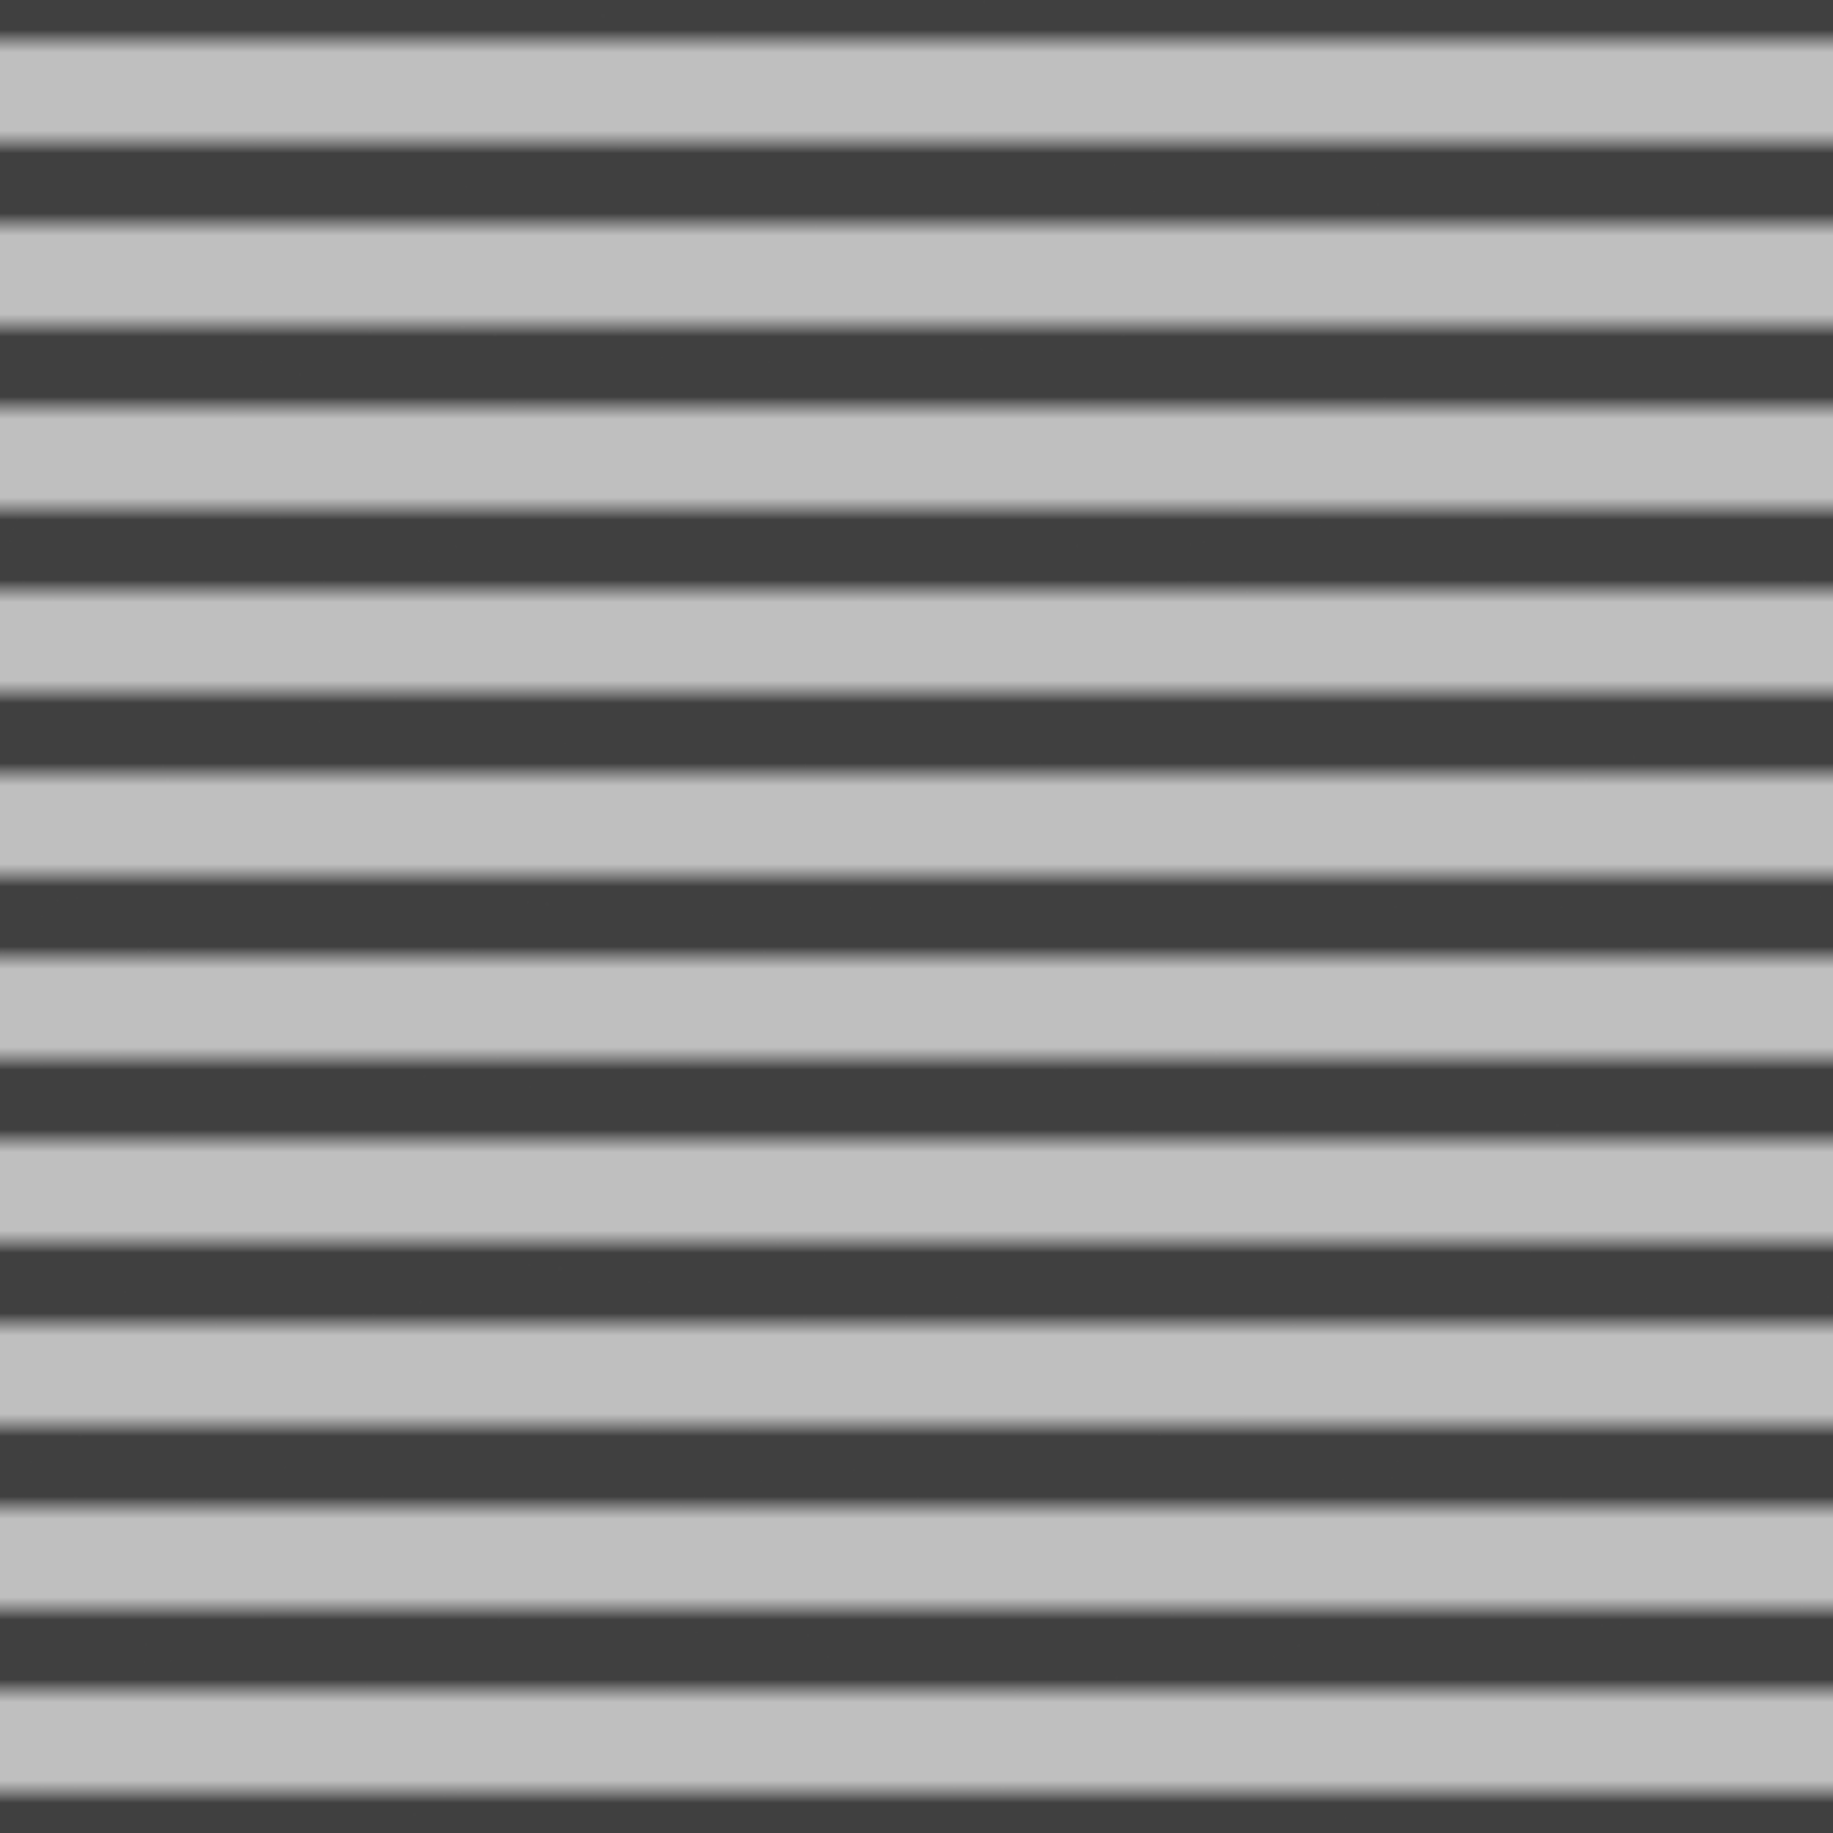
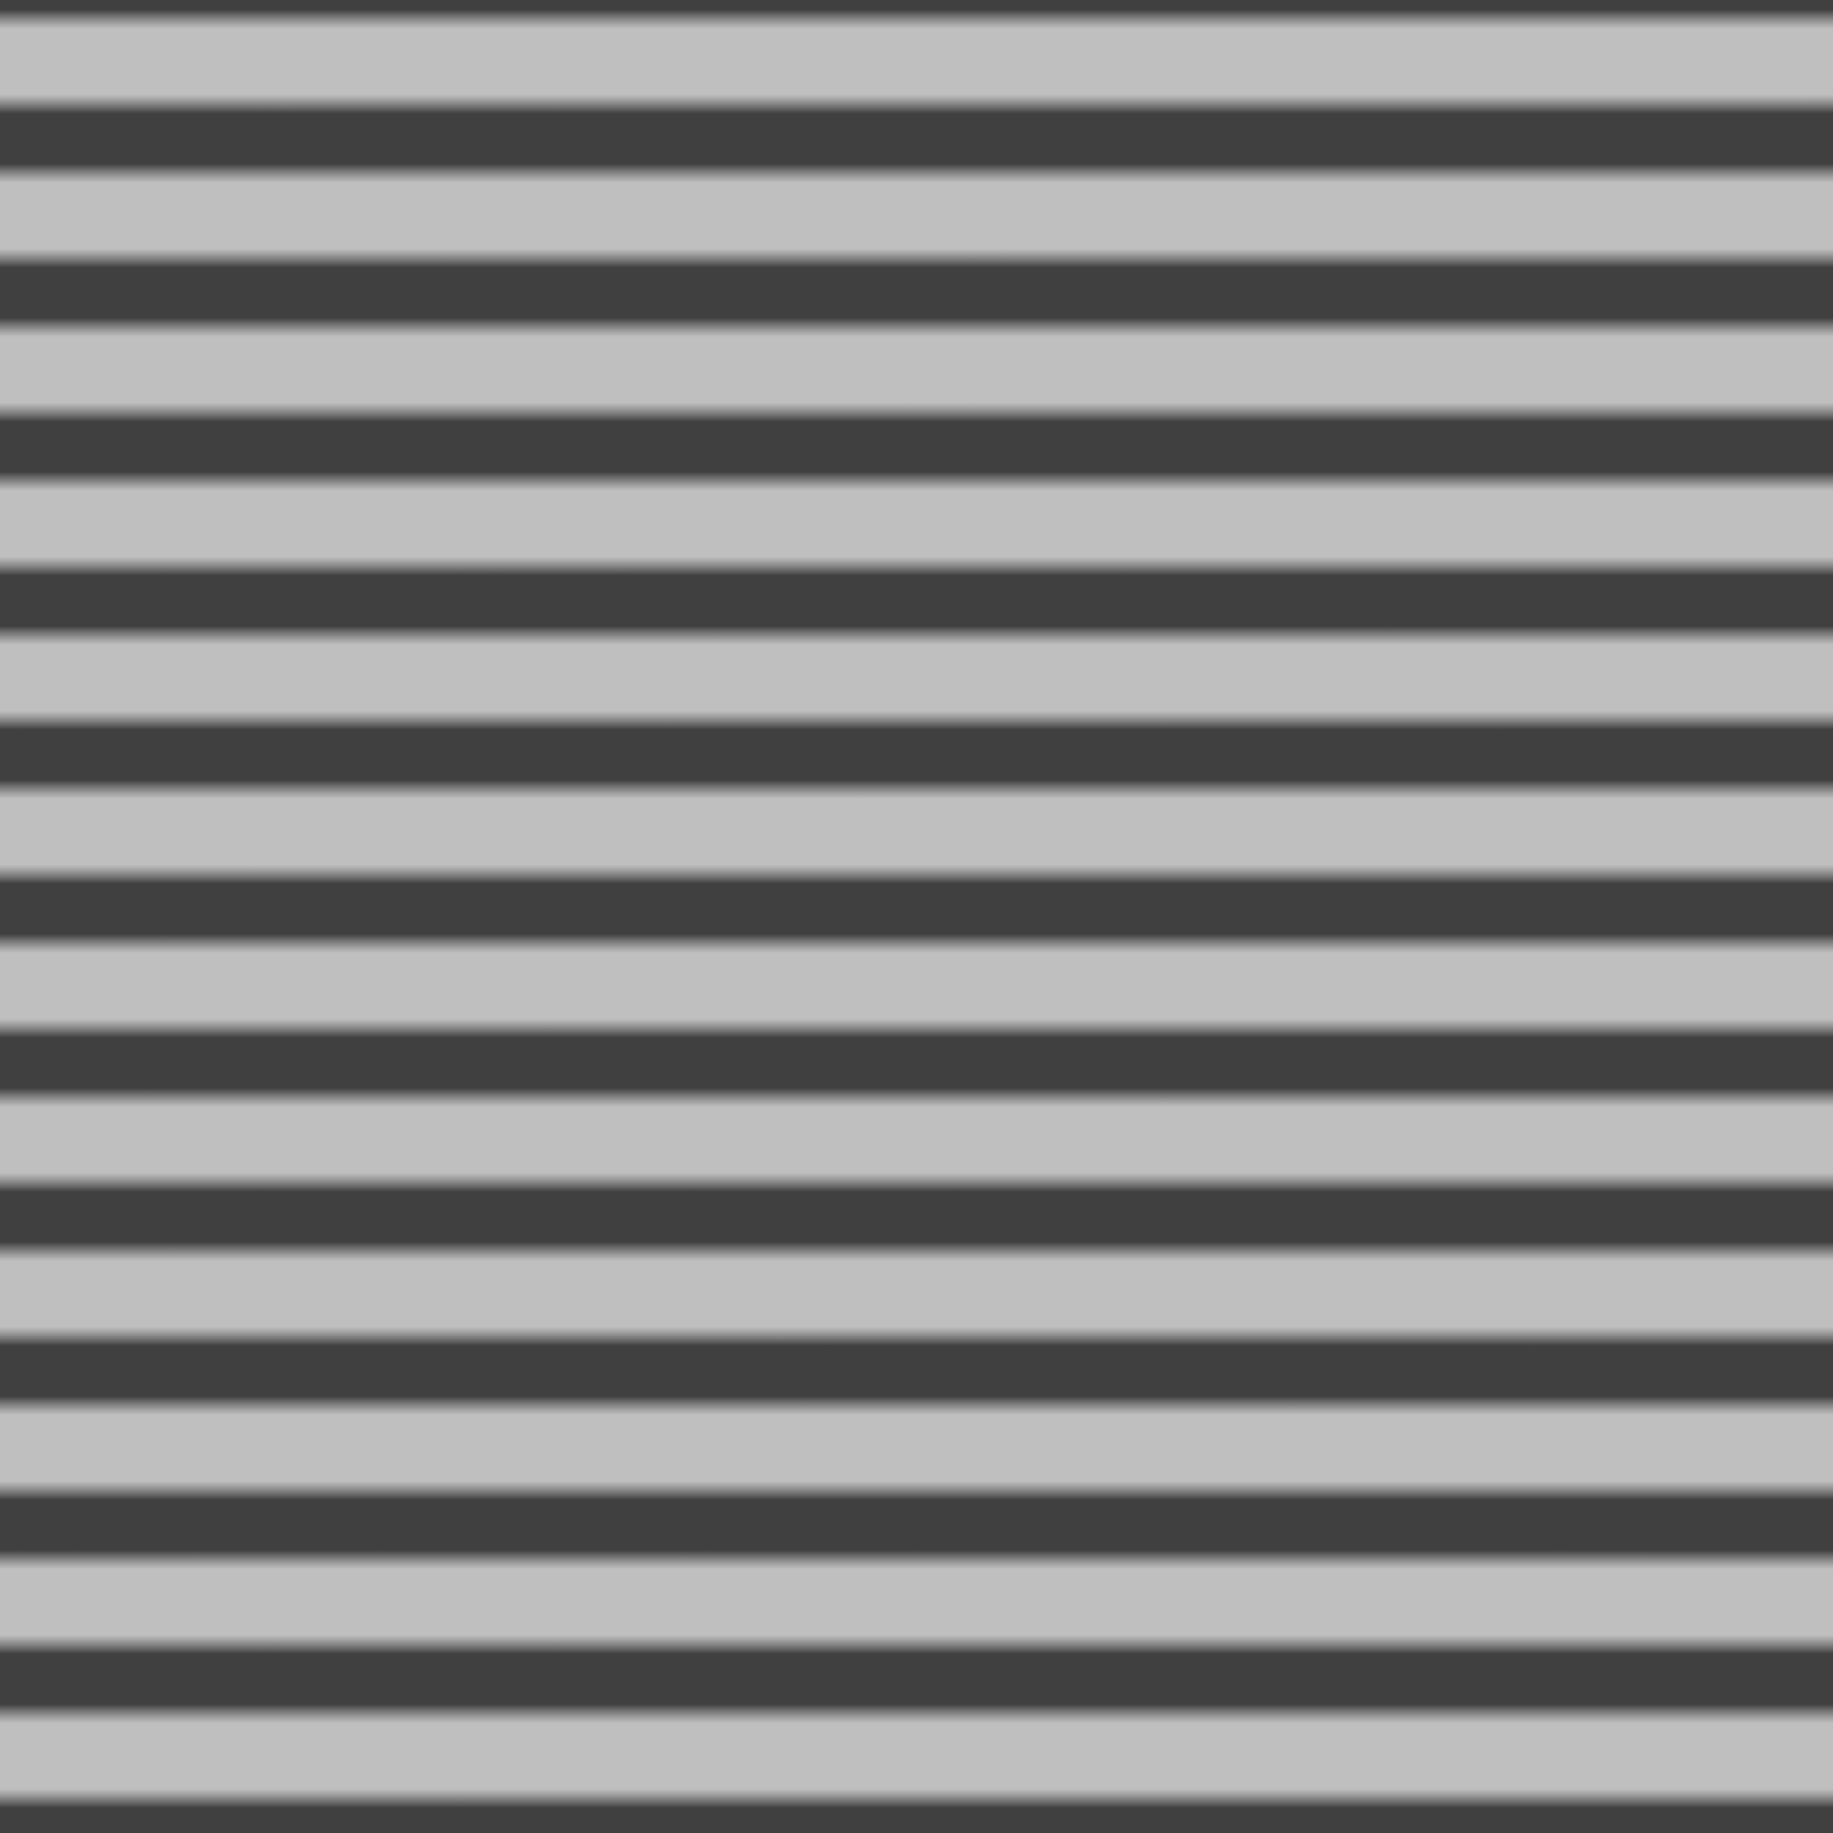
material fitment

diff --git a/src/configurator/gateTypes.js b/src/configurator/gateTypes.js
@@ -22,6 +22,15 @@ export const doubleDoor = function createDoubleDoor(width, height, material) {
   const gateDoor = new Mesh(new BoxGeometry(width - 0.04, height - 0.04, 0.005), material);
   gateDoor.castShadow = true;
   gateDoor.receiveShadow = true;
+  if (material.horizontal) {
+    gateDoor.material.map = material.map.clone();
+    gateDoor.material.map.repeat.set(width - 0.04, height - 0.04);
+    gateDoor.material.map.offset.set(gateDoor.material.map.offset.x, gateDoor.material.map.offset.y + 0.02);
+  } else {
+    gateDoor.material.map = material.map.clone();
+    gateDoor.material.map.repeat.set(height - 0.04, width - 0.04);
+    gateDoor.material.map.offset.set(gateDoor.material.map.offset.x, gateDoor.material.map.offset.y - 0.02);
+  }
 
   const frameColor = material.color.clone();
   frameColor.addScalar(-0.5);
@@ -46,9 +55,10 @@ export const doubleDoor = function createDoubleDoor(width, height, material) {
     })
   );
   separator.position.z = 0.005;
-  handle.position.y = -height / 2 + 0.9;
+  const handleClone = handle.clone();
+  handleClone.position.y = -height / 2 + 0.9;
 
-  gateGroup.add(separator, gateDoor, gateDoorFrame, handle);
+  gateGroup.add(separator, gateDoor, gateDoorFrame, handleClone);
   gateGroup.position.y = height / 2;
   gateGroup.position.z = -0.005;
 
@@ -63,6 +73,15 @@ export const tiltedWidepanelDoor = function createTiltedWidepanelDoor(width, hei
   const gateDoor = new Mesh(new BoxGeometry(width - 0.04, height - 0.04, 0.005), material);
   gateDoor.castShadow = true;
   gateDoor.receiveShadow = true;
+  if (material.horizontal) {
+    gateDoor.material.map = material.map.clone();
+    gateDoor.material.map.repeat.set(width - 0.04, height - 0.04);
+    gateDoor.material.map.offset.set(gateDoor.material.map.offset.x, gateDoor.material.map.offset.y + 0.02);
+  } else {
+    gateDoor.material.map = material.map.clone();
+    gateDoor.material.map.repeat.set(height - 0.04, width - 0.04);
+    gateDoor.material.map.offset.set(gateDoor.material.map.offset.x, gateDoor.material.map.offset.y - 0.02);
+  }
 
   const frameColor = material.color.clone();
   frameColor.addScalar(-0.5);
@@ -78,11 +97,12 @@ export const tiltedWidepanelDoor = function createTiltedWidepanelDoor(width, hei
   gateDoorFrame.castShadow = true;
   gateDoorFrame.receiveShadow = true;
 
-  handle.position.y = -height / 2 + 0.6;
-  handle.position.x = 0;
-  handle.rotation.z = -Math.PI / 2;
+  const handleClone = handle.clone();
+  handleClone.position.y = -height / 2 + 0.6;
+  handleClone.position.x = 0;
+  handleClone.rotation.z = -Math.PI / 2;
 
-  gateGroup.add(gateDoor, gateDoorFrame, handle);
+  gateGroup.add(gateDoor, gateDoorFrame, handleClone);
   gateGroup.position.y = height / 2;
   gateGroup.position.z = -0.005;
 
@@ -95,6 +115,15 @@ export const tiltedDoor = function createTiltedDoor(width, height, material) {
   const gateDoor = new Mesh(new BoxGeometry(width - 0.04, height - 0.04, 0.005), material);
   gateDoor.castShadow = true;
   gateDoor.receiveShadow = true;
+  if (material.horizontal) {
+    gateDoor.material.map = material.map.clone();
+    gateDoor.material.map.repeat.set(width - 0.04, height - 0.04);
+    gateDoor.material.map.offset.set(gateDoor.material.map.offset.x, gateDoor.material.map.offset.y + 0.02);
+  } else {
+    gateDoor.material.map = material.map.clone();
+    gateDoor.material.map.repeat.set(height - 0.04, width - 0.04);
+    gateDoor.material.map.offset.set(gateDoor.material.map.offset.x, gateDoor.material.map.offset.y - 0.02);
+  }
 
   const frameColor = material.color.clone();
   frameColor.addScalar(-0.5);
@@ -110,11 +139,12 @@ export const tiltedDoor = function createTiltedDoor(width, height, material) {
   gateDoorFrame.castShadow = true;
   gateDoorFrame.receiveShadow = true;
 
-  handle.position.y = -height / 2 + 0.6;
-  handle.position.x = 0;
-  handle.rotation.z = -Math.PI / 2;
+  const handleClone = handle.clone();
+  handleClone.position.y = -height / 2 + 0.6;
+  handleClone.position.x = 0;
+  handleClone.rotation.z = -Math.PI / 2;
 
-  gateGroup.add(gateDoor, gateDoorFrame, handle);
+  gateGroup.add(gateDoor, gateDoorFrame, handleClone);
   gateGroup.position.y = height / 2;
   gateGroup.position.z = -0.005;
 

diff --git a/src/configurator/wall.js b/src/configurator/wall.js
@@ -2,14 +2,14 @@ import { Mesh, Group, BoxGeometry } from "three";
 import * as Material from "./materials";
 
 export default class Wall {
-  constructor(width, height, offset = 0, rotation = 0, clippingPlane) {
+  constructor(width, height, offset = 0, rotation = 0, clippingPlane, material) {
     this.width = width;
     this.height = height;
     this.offset = offset;
     this.rotation = rotation;
     this.object = new Group();
     this.object.add(this.createWall());
-    this.material = this.updateMaterial(Material.RAL9010, clippingPlane);
+    this.material = this.updateMaterial(material, clippingPlane);
   }
   createWall() {
     let wall = new Mesh(new BoxGeometry(this.width, this.height + 0.5, 0.01), this.material);
@@ -33,10 +33,10 @@ export default class Wall {
     wallMaterial.roughnessMap ? (wallMaterial.roughnessMap = material.roughnessMap.clone()) : null;
     wallMaterial.bumpMap ? (wallMaterial.bumpMap = material.bumpMap.clone()) : null;
     if (wallMaterial.map && material.horizontal) {
-      wallMaterial.map.repeat.set(this.width, this.height);
-      wallMaterial.normalMap ? wallMaterial.normalMap.repeat.set(this.width, this.height) : null;
-      wallMaterial.roughnessMap ? wallMaterial.roughnessMap.repeat.set(this.width, this.height) : null;
-      wallMaterial.bumpMap ? wallMaterial.bumpMap.repeat.set(this.width, this.height) : null;
+      wallMaterial.map.repeat.set(this.width, this.height + 0.5);
+      wallMaterial.normalMap ? wallMaterial.normalMap.repeat.set(this.width, this.height + 0.5) : null;
+      wallMaterial.roughnessMap ? wallMaterial.roughnessMap.repeat.set(this.width, this.height + 0.5) : null;
+      wallMaterial.bumpMap ? wallMaterial.bumpMap.repeat.set(this.width, this.heigh + 0.5) : null;
     } else {
       wallMaterial.map ? wallMaterial.map.repeat.set(this.height, this.width) : null;
       wallMaterial.normalMap ? wallMaterial.normalMap.repeat.set(this.height, this.width) : null;

diff --git a/src/configurator/roof.js b/src/configurator/roof.js
@@ -15,26 +15,22 @@ export default class Roof {
       roofPart.material = material.clone();
       roofPart.material.map = material.map.clone();
       roofPart.material.map.rotation = partOldRotation;
-      material.horizontal ? roofPart.material.map.repeat.set(length, 2) : roofPart.material.map.repeat.set(partOldRepeat.x, partOldRepeat.y);
+      material.horizontal ? roofPart.material.map.repeat.set(1, 1) : roofPart.material.map.repeat.set(partOldRepeat.x, partOldRepeat.y);
 
       if (material.bumpMap) {
         roofPart.material.bumpMap = material.bumpMap.clone();
-        material.horizontal
-          ? roofPart.material.bumpMap.repeat.set(length, 2)
-          : roofPart.material.bumpMap.repeat.set(partOldRepeat.x, partOldRepeat.y);
+        material.horizontal ? roofPart.material.bumpMap.repeat.set(1.1) : roofPart.material.bumpMap.repeat.set(partOldRepeat.x, partOldRepeat.y);
         roofPart.material.bumpScale = material.bumpScale;
       }
       if (material.roughnessMap) {
         roofPart.material.roughnessMap = material.roughnessMap.clone();
         material.horizontal
-          ? roofPart.material.roughnessMap.repeat.set(length, 2)
+          ? roofPart.material.roughnessMap.repeat.set(1, 1)
           : roofPart.material.roughnessMap.repeat.set(partOldRepeat.x, partOldRepeat.y);
       }
       if (material.normalMap) {
         roofPart.material.normalMap = material.normalMap.clone();
-        material.horizontal
-          ? roofPart.material.normalMap.repeat.set(length, 2)
-          : roofPart.material.normalMap.repeat.set(partOldRepeat.x, partOldRepeat.y);
+        material.horizontal ? roofPart.material.normalMap.repeat.set(1, 1) : roofPart.material.normalMap.repeat.set(partOldRepeat.x, partOldRepeat.y);
         roofPart.material.normalScale = material.normalScale;
       }
 

diff --git a/src/configurator/Configurator.vue b/src/configurator/Configurator.vue
@@ -27,18 +27,19 @@ onMounted(() => {
   scene.add(camera);
   scene.add(lights);
 
-  const test = new Garage(6, 5, 2.15, Material.RAL9010);
+  const test = new Garage(6, 5, 2, Material.WOOD_DARK_SHINE);
   scene.add(test.object);
 
-  test.walls[0].addElement(new Gate(3, 2, Material.WOOD_DARK_SHINE, "gate1", "tilted"), 1, 0);
-  test.walls[1].addElement(new Window(1, 1, Material.WHITE, "window2"), 0.5, 1);
-  test.walls[2].addElement(new Window(1, 0.7, Material.GRAY, "window1"), 0.5, 1);
-  test.walls[0].addElement(new Window(1, 1, Material.BROWN, "window3"), 4.5, 1);
-  test.fittings.create();
-  test.updateRoof("left");
-  test.fittings.updateMaterial(Material.WOOD_DARK_SHINE);
+  test.walls[0].addElement(new Gate(2, 2, Material.WOOD_DARK_SHINE, "gate1", "tilted"), 1, 0);
+  test.walls[0].addElement(new Gate(2, 2, Material.WOOD_DARK_SHINE_H, "gate2", "double"), 3.2, 0);
+  // test.walls[1].addElement(new Window(1, 1, Material.WHITE, "window2"), 0.5, 1);
+  // test.walls[2].addElement(new Window(1, 0.7, Material.GRAY, "window1"), 0.5, 1);
+  // test.walls[0].addElement(new Window(1, 1, Material.BROWN, "window3"), 4.5, 1);
+  // test.fittings.create();
+  // test.updateRoof("left");
+  // test.fittings.updateMaterial(Material.RAL9010);
   test.walls[2].addElement(new Door(1, 1.88, Material.WOOD_DARK_SHINE, "door1"), 2.5, 0);
-  test.updateMaterial(Material.WOOD_DARK_SHINE);
+  test.updateMaterial(Material.RAL9010);
   // test.updateRoof("back");
   // test.updateRoof("");
 

diff --git a/src/configurator/wallElement.js b/src/configurator/wallElement.js
@@ -10,22 +10,7 @@ export default class WallElement {
 
   updateMaterial(material) {
     const newMaterial = material.clone();
-
-    newMaterial.map ? (newMaterial.map = material.map.clone()) : null;
-    newMaterial.normalMap ? (newMaterial.normalMap = material.normalMap.clone()) : null;
-    newMaterial.roughnessMap ? (newMaterial.roughnessMap = material.roughnessMap.clone()) : null;
-    newMaterial.bumpMap ? (newMaterial.bumpMap = material.bumpMap.clone()) : null;
-    if (newMaterial.map && material.horizontal) {
-      newMaterial.map.repeat.set(this.width, this.height);
-      newMaterial.normalMap ? newMaterial.normalMap.repeat.set(this.width, this.height) : null;
-      newMaterial.roughnessMap ? newMaterial.roughnessMap.repeat.set(this.width, this.height) : null;
-      newMaterial.bumpMap ? newMaterial.bumpMap.repeat.set(this.width, this.height) : null;
-    } else {
-      newMaterial.map ? newMaterial.map.repeat.set(this.height, this.width) : null;
-      newMaterial.normalMap ? newMaterial.normalMap.repeat.set(this.height, this.width) : null;
-      newMaterial.roughnessMap ? newMaterial.roughnessMap.repeat.set(this.height, this.width) : null;
-      newMaterial.bumpMap ? newMaterial.bumpMap.repeat.set(this.height, this.width) : null;
-    }
+    newMaterial.horizontal = material.horizontal;
     return newMaterial;
   }
 }

diff --git a/src/configurator/door.js b/src/configurator/door.js
@@ -24,6 +24,15 @@ export default class Door extends WallElement {
     const door = new Mesh(new BoxGeometry(this.width - 0.04, this.height - 0.04, 0.005), this.material);
     door.castShadow = true;
     door.receiveShadow = true;
+    if (material.horizontal) {
+      door.material.map = material.map.clone();
+      door.material.map.repeat.set(width - 0.04, height - 0.04);
+      door.material.map.offset.set(door.material.map.offset.x, door.material.map.offset.y + 0.02);
+    } else {
+      door.material.map = material.map.clone();
+      door.material.map.repeat.set(height - 0.04, width - 0.04);
+      door.material.map.offset.set(door.material.map.offset.x, door.material.map.offset.y - 0.02);
+    }
 
     const frameColor = material.color.clone();
     frameColor.addScalar(-0.5);

diff --git a/src/configurator/garage.js b/src/configurator/garage.js
@@ -20,10 +20,10 @@ export default class Garage {
   createWalls() {
     for (let i = 0; i < 4; i++) {
       if (i < 2) {
-        let wall = new WallCustom(this.width, this.height, this.length / 2, i * Math.PI, this.roof.clippingPlane);
+        let wall = new WallCustom(this.width, this.height, this.length / 2, i * Math.PI, this.roof.clippingPlane, this.material);
         this.walls.push(wall);
       } else {
-        let wall = new WallCustom(this.length, this.height, this.width / 2, i * Math.PI + Math.PI / 2, this.roof.clippingPlane);
+        let wall = new WallCustom(this.length, this.height, this.width / 2, i * Math.PI + Math.PI / 2, this.roof.clippingPlane, this.material);
         this.walls.push(wall);
       }
     }

diff --git a/src/configurator/wallCustom.js b/src/configurator/wallCustom.js
@@ -4,8 +4,8 @@ import { CSG } from "@enable3d/three-graphics/jsm/csg";
 import Gate from "./Gate";
 
 export default class WallCustom extends Wall {
-  constructor(width, height, offset = 0, rotation = 0, clippingPlane) {
-    super(width, height, offset, rotation, clippingPlane);
+  constructor(width, height, offset = 0, rotation = 0, clippingPlane, material) {
+    super(width, height, offset, rotation, clippingPlane, material);
     const initCustomWall = this.createWall();
     initCustomWall.name = "wall";
     this.object = new Group().add(initCustomWall);

diff --git a/src/configurator/textures.js b/src/configurator/textures.js
@@ -2,7 +2,7 @@ import { TextureLoader, RepeatWrapping } from "three";
 
 const loader = new TextureLoader();
 
-export const metalTexture = loadTexture("./src/assets/metal/metal.jpg");
+export const metalTexture = loadTexture("./src/assets/metal/metal.png");
 metalTexture.rotation = Math.PI / 2;
 metalTexture.wrapS = RepeatWrapping;
 metalTexture.wrapT = RepeatWrapping;
